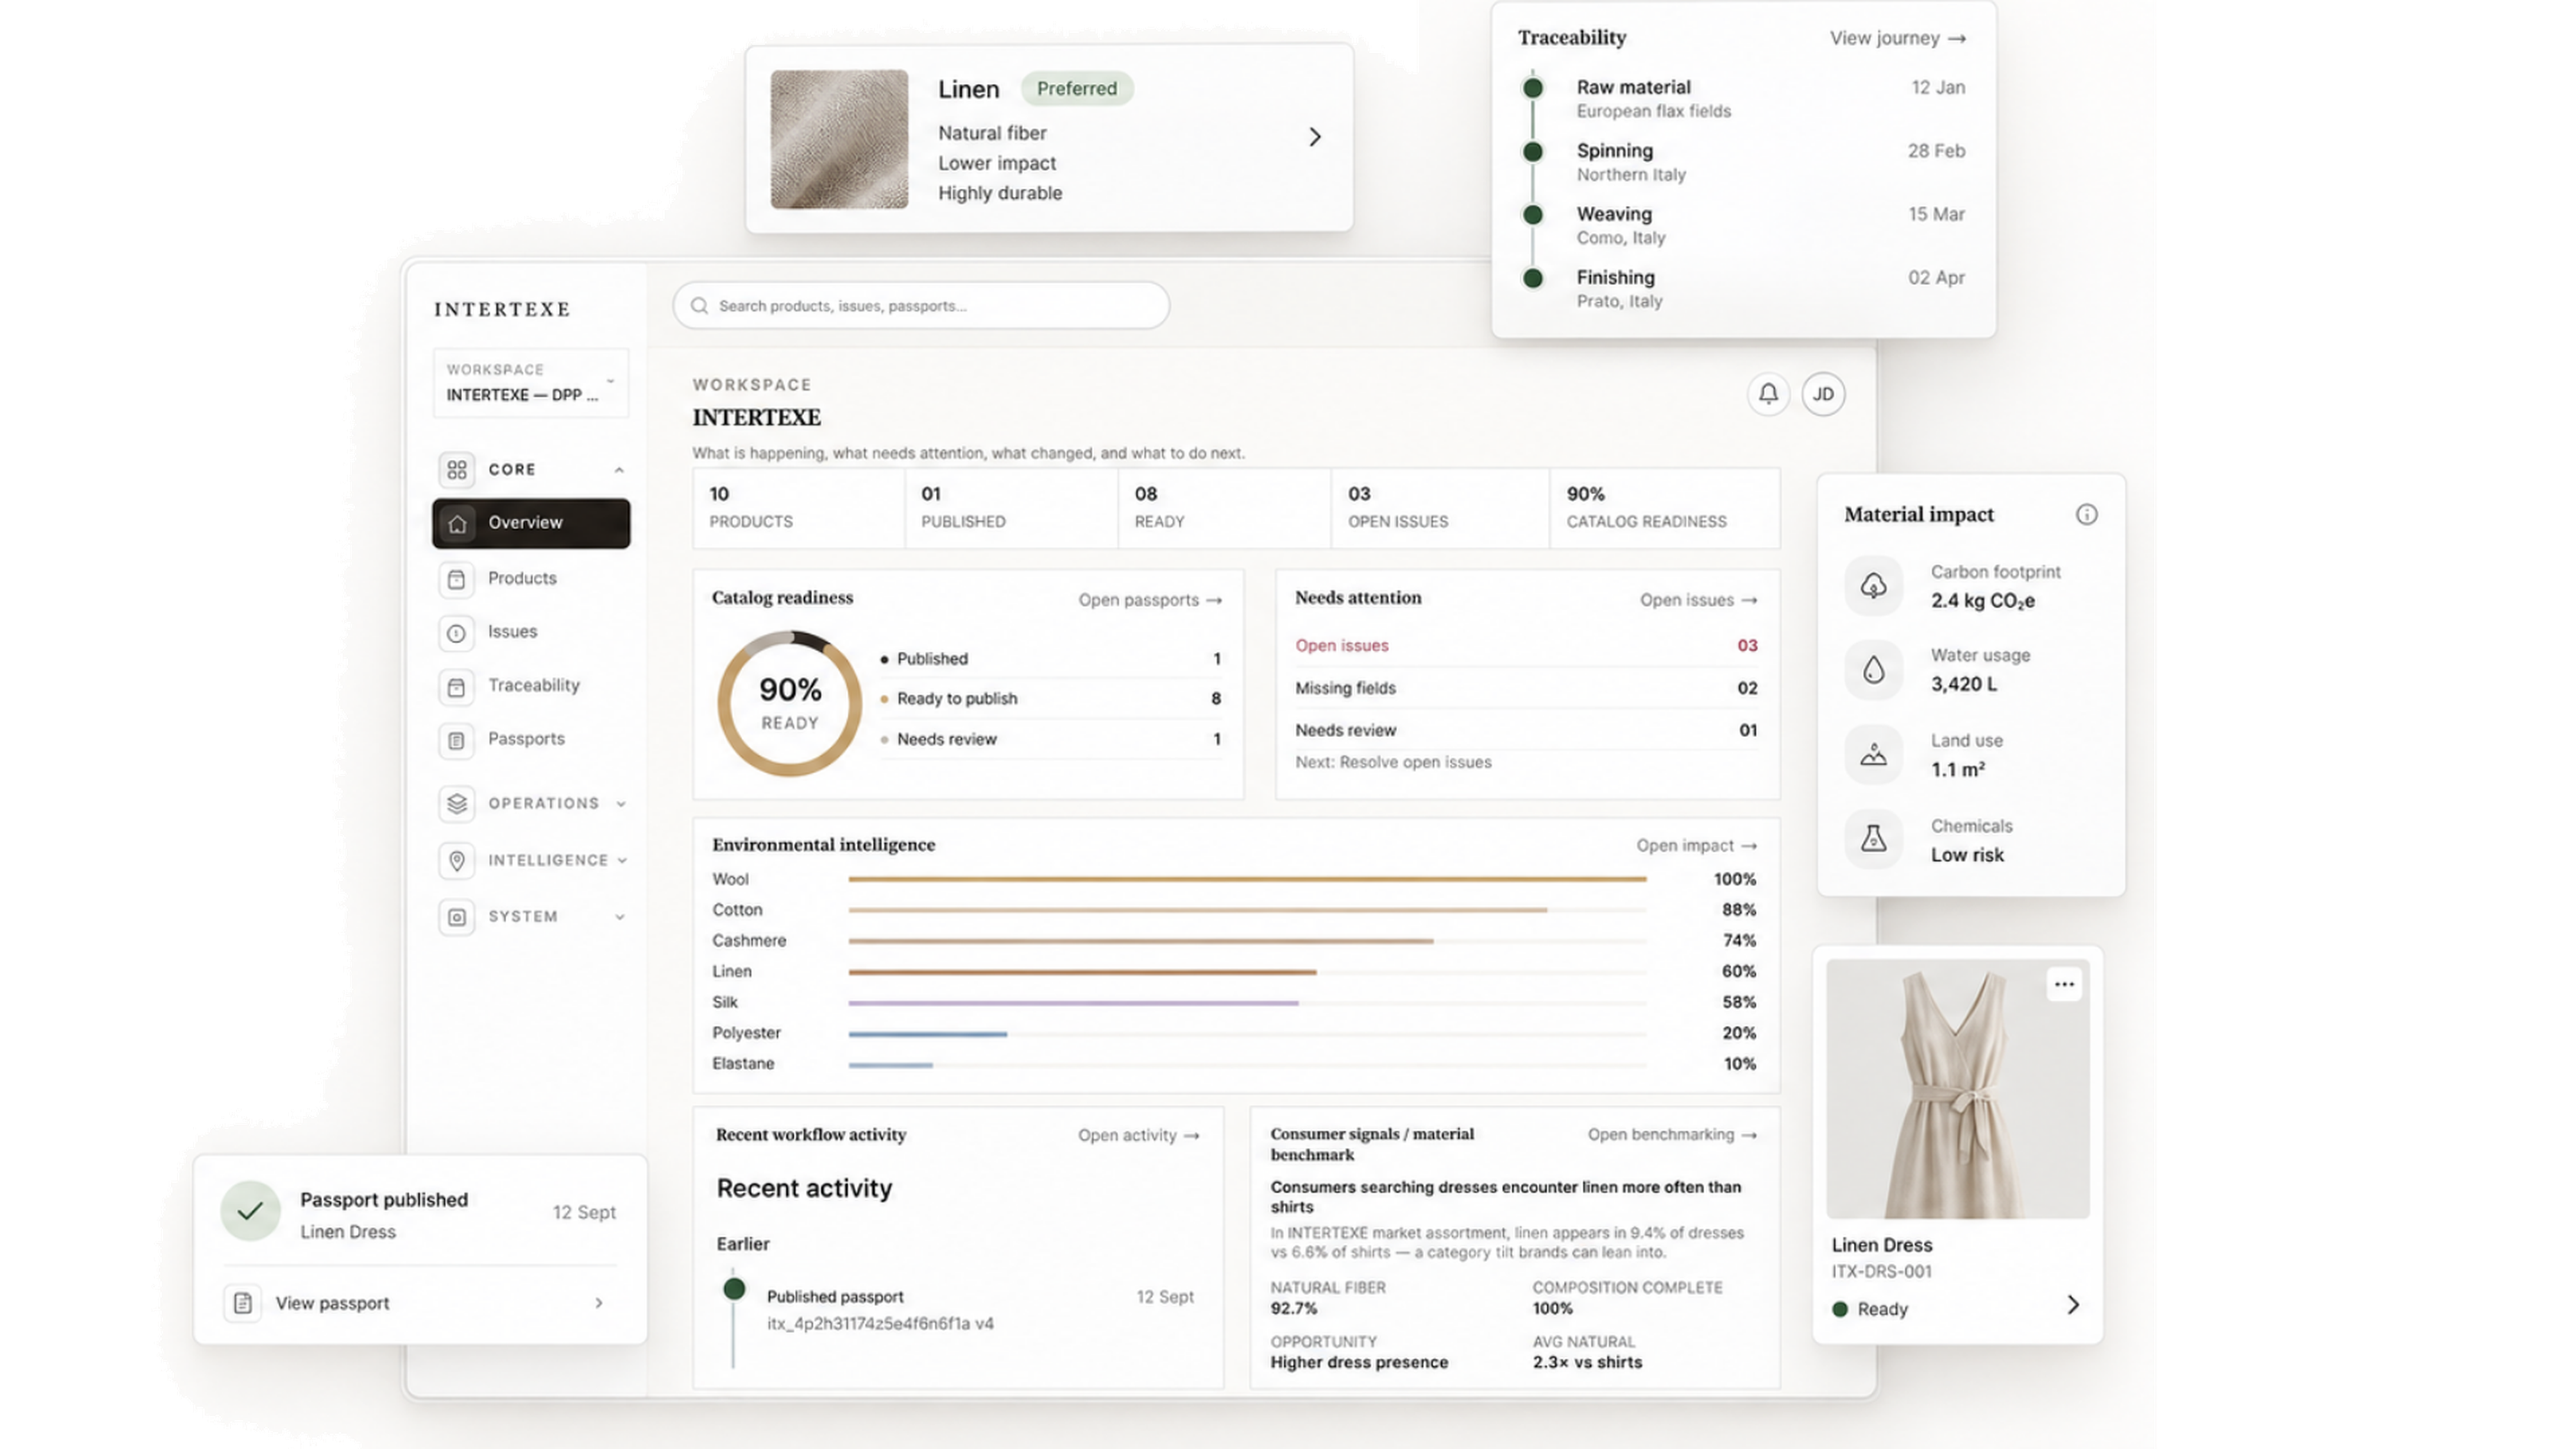
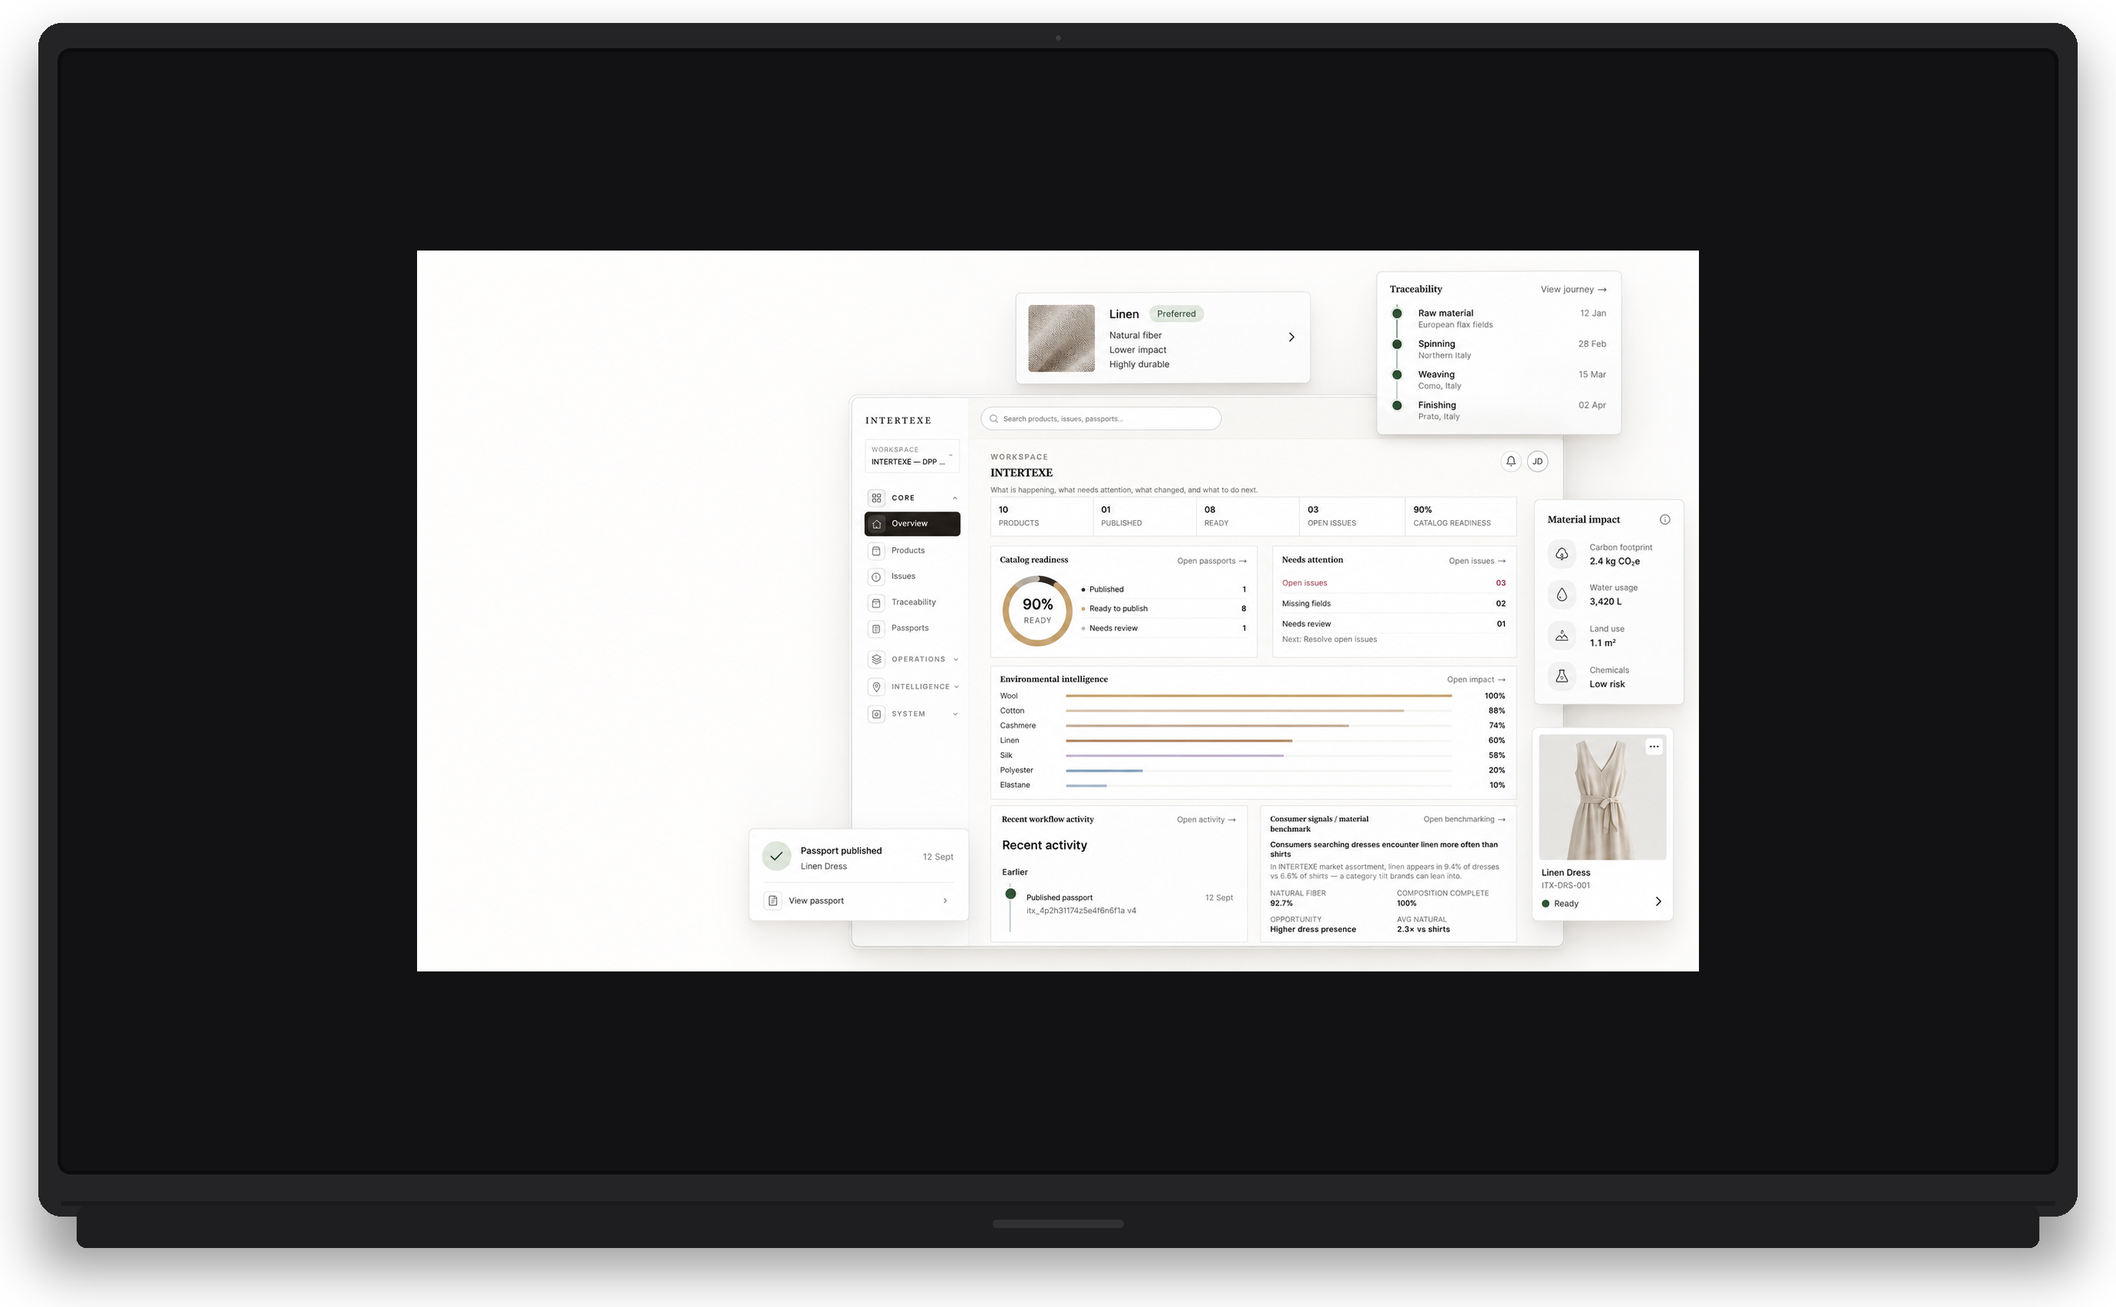
Place See it Live hero graphic inside a laptop frame
Avoid fragile transparent cutouts by seating the full workspace composition in a clean laptop mockup with transparent exterior, so left-edge fringe issues no longer show on the dark stage.

diff --git a/app/platform/GovernedRecordStageSection.tsx b/app/platform/GovernedRecordStageSection.tsx
@@ -28,10 +28,10 @@ export function GovernedRecordStageSection() {
       <div className="governed-opener-visual">
         {/* Native img keeps PNG alpha reliable for the floating composition. */}
         <img
-          src="/platform/demo-governed-workspace.png?v=alpha5"
-          alt="INTERTEXE workspace with catalog readiness, material intelligence, traceability, and passport activity cards."
-          width={3360}
-          height={1890}
+          src="/platform/demo-governed-workspace.png?v=laptop1"
+          alt="INTERTEXE workspace on a laptop — catalog readiness, material intelligence, traceability, and passport activity."
+          width={2760}
+          height={1706}
           className="governed-opener-image"
           decoding="async"
           fetchPriority="high"
